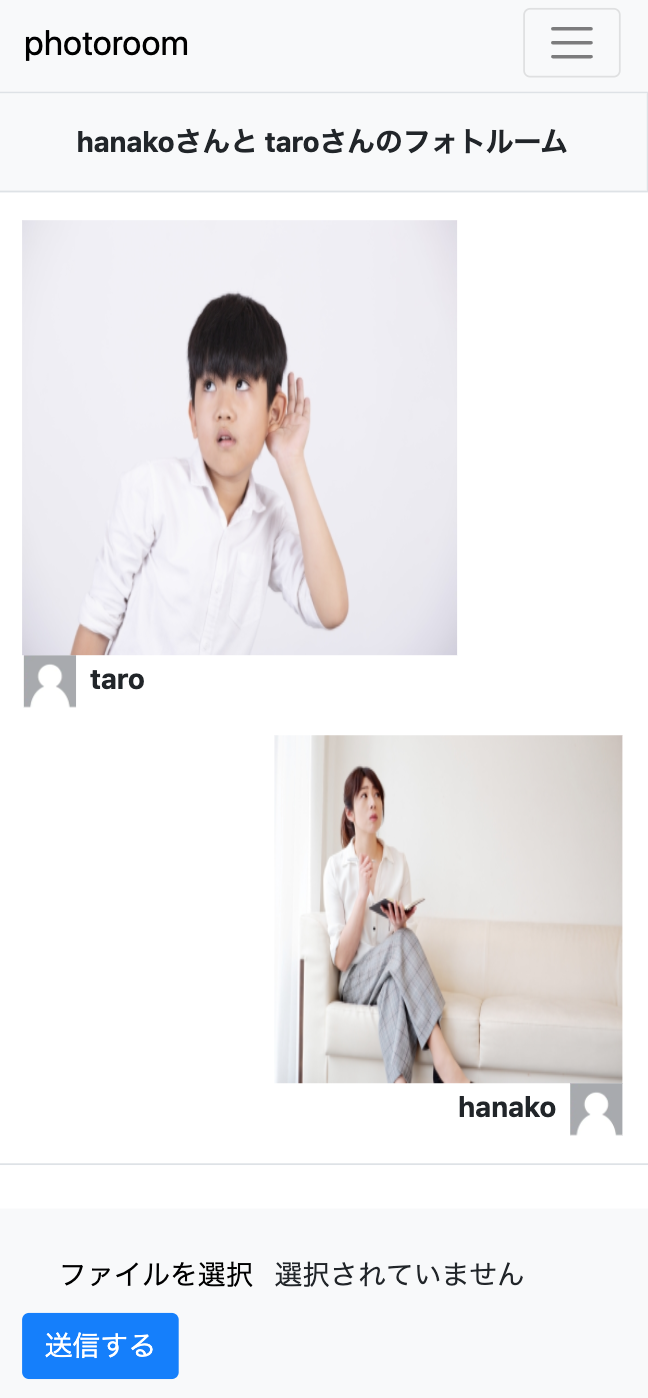
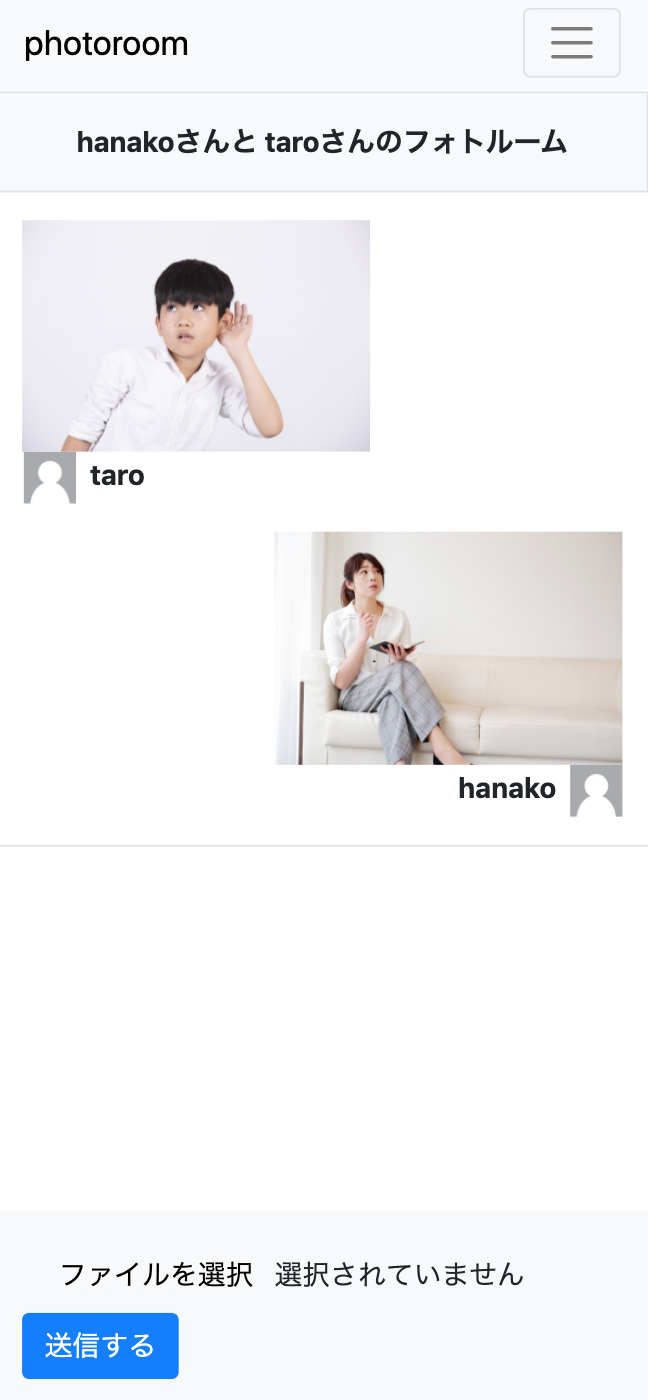
👍登録ボタンのデザイン変更とチュートリアルページの写真の縦横比の改善

diff --git a/app/assets/stylesheets/application.scss b/app/assets/stylesheets/application.scss
@@ -10,17 +10,20 @@
  * files in this directory. Styles in this file should be added after the last require_* statement.
  * It is generally better to create a new file per style scope.
  *
+*= require_self
+*= require_tree .
  */
 @import "bootstrap";
 @import 'font-awesome-sprockets';
 @import 'font-awesome';
 
-.user-box {
-  padding: 30px;
-  border: 1px solid #dcdcdc;
-  background-color: #f8f8ff;
-  border-radius: 30px
-}
+
+// .user-box {
+//   padding: 30px;
+//   border: 1px solid #dcdcdc;
+//   background-color: #f8f8ff;
+//   border-radius: 30px
+// }
 
 // フォント変更CSS
 // @font-face {

diff --git a/app/assets/stylesheets/tutorial.scss b/app/assets/stylesheets/tutorial.scss
@@ -1,3 +1,7 @@
 // Place all the styles related to the tutorial controller here.
 // They will automatically be included in application.css.
 // You can use Sass (SCSS) here: http://sass-lang.com/
+
+#registration-btn {
+  background-color: #109bdb;
+}

diff --git a/config/environments/development.rb b/config/environments/development.rb
@@ -58,6 +58,6 @@ Rails.application.configure do
   # Use an evented file watcher to asynchronously detect changes in source code,
   # routes, locales, etc. This feature depends on the listen gem.
   config.file_watcher = ActiveSupport::EventedFileUpdateChecker
-
+  config.assets.digest = false
   config.action_mailer.default_url_options = { host: 'localhost', port: 3000 }
 end
